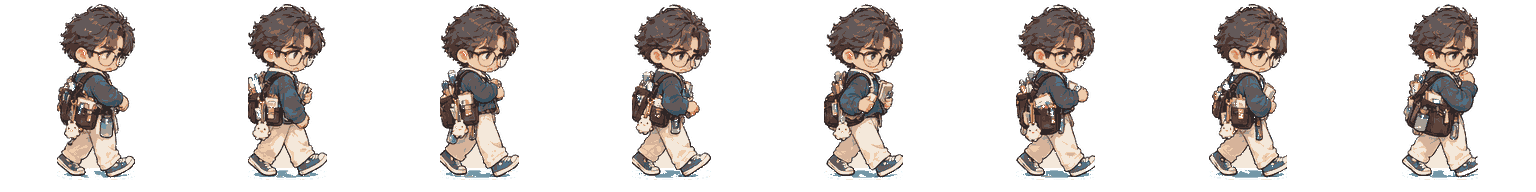
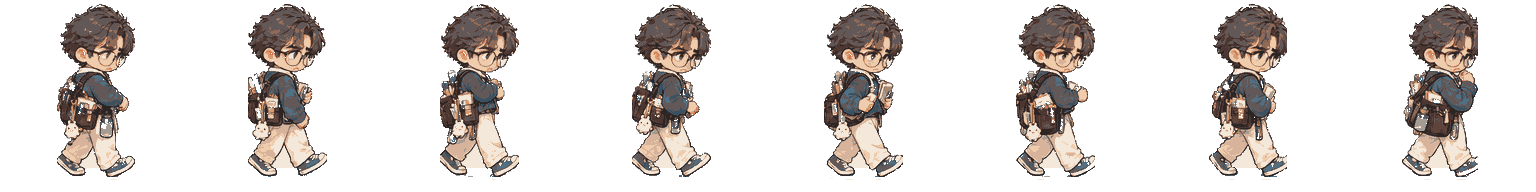
Publish compiled playtest a34ddfb

diff --git a/assets/index-BfreNoPp.js b/assets/index-BfreNoPp.js
@@ -137,7 +137,7 @@ return new `+this.key+`();
       <strong>XOAY NGANG</strong>
       <span class="mememe-landscape-note">Chạm để vào game • nếu máy không tự xoay, xoay ngang bằng tay</span>
     </button>
-  `,document.body.appendChild(R),je=R;const u=()=>pn(),g=R.querySelector(".mememe-landscape-card-simple"),C=g?.querySelector("strong");return g?.addEventListener("click",async()=>{if(!Us){Us=!0,g.disabled=!0,C&&(C.textContent="ĐANG XOAY…");try{await io(!0),u();for(const M of wl){if(!Ze||!Oi())break;await Ol(M),u()}Ze&&Oi()?eo("manual-fallback"):u()}finally{Us=!1,g.disabled=!1,C&&(C.textContent="XOAY NGANG"),u()}}}),window.addEventListener("resize",u,{passive:!0}),window.addEventListener("orientationchange",u,{passive:!0}),window.visualViewport?.addEventListener("resize",u,{passive:!0}),document.addEventListener("fullscreenchange",u),u(),()=>{window.removeEventListener("resize",u),window.removeEventListener("orientationchange",u),window.visualViewport?.removeEventListener("resize",u),document.removeEventListener("fullscreenchange",u),document.body.classList.remove("mememe-phone-portrait"),wi=void 0,R.remove(),je===R&&(je=void 0)}}const Nl={peach:{sky:16768966,glow:16773583,hill:15643277,leaf:13160330,accent:14187357},mint:{sky:14348498,glow:16773823,hill:11456925,leaf:8567693,accent:6596733},butter:{sky:16771e3,glow:16774873,hill:15320955,leaf:12175999,accent:14192466},sky:{sky:14282229,glow:16773318,hill:12442063,leaf:9421730,accent:7514313}};function si(R,u,g){const C=Nl[u];R.cameras.main.setBackgroundColor(C.sky);const M=R.add.graphics().setName("toy-town-backdrop-ch17").setDepth(-1e3);M.fillStyle(C.sky,1).fillRect(0,0,1280,720),M.fillStyle(C.glow,.58),M.fillTriangle(640,35,355,0,510,720),M.fillTriangle(640,35,765,0,870,720),M.fillTriangle(640,35,980,0,1110,720),M.fillStyle(C.hill,.7),M.fillEllipse(160,675,500,220),M.fillEllipse(1120,670,540,245),M.fillStyle(C.leaf,.78);for(const[y,t,a]of[[62,95,78],[148,70,98],[1190,92,100],[1250,160,82],[70,642,95],[1195,640,112]])M.fillCircle(y,t,a);M.fillStyle(16777215,.72);for(const[y,t,a]of[[255,78,7],[316,132,4],[1e3,92,6],[1080,152,4],[905,54,3]])M.fillCircle(y,t,a);const I=g.radius??34;M.fillStyle(4927530,.18).fillRoundedRect(g.x+8,g.y+10,g.width,g.height,I),M.fillStyle(16775144,.985).fillRoundedRect(g.x,g.y,g.width,g.height,I),M.lineStyle(5,4927530,1).strokeRoundedRect(g.x,g.y,g.width,g.height,I),M.lineStyle(3,16777215,.72).strokeRoundedRect(g.x+8,g.y+8,g.width-16,g.height-16,Math.max(12,I-8));const v=Math.min(250,g.width*.28);return M.fillStyle(C.accent,1).fillRoundedRect(g.x+34,g.y-8,v,24,12),M.lineStyle(3,4927530,1).strokeRoundedRect(g.x+34,g.y-8,v,24,12),M}const gr="mememe-official-logo-069",Dl="assets/mememe-logo-main.png?v=official-png-1024-0694";class Mi extends q.Scene{started069=!1;constructor(){super("SplashScene069")}preload(){this.load.image(gr,Dl)}create(){document.body.classList.add("mememe-splash-active"),this.events.once(q.Scenes.Events.SHUTDOWN,()=>document.body.classList.remove("mememe-splash-active")),this.events.once(q.Scenes.Events.DESTROY,()=>document.body.classList.remove("mememe-splash-active")),si(this,"peach",{x:250,y:84,width:780,height:552,radius:38}).setName("splash-toy-town-backdrop-ch178");const u=this.add.graphics().setName("splash-brand-glow-ch178");u.fillStyle(16777215,.76),u.fillCircle(640,292,185),u.fillStyle(16766826,.2),u.fillCircle(640,292,205);const g=this.add.image(640,292,gr).setAlpha(0).setScale(.48),C=this.add.graphics().setName("splash-start-shadow-ch178");C.fillStyle(14261048,1),C.fillRoundedRect(442,558,396,68,23);const M=this.add.graphics().setName("splash-start-face-ch178");M.fillStyle(16766826,1),M.fillRoundedRect(442,551,396,68,23),M.fillStyle(16777215,.58),M.fillRoundedRect(454,559,372,12,6),M.lineStyle(4,4927530,1),M.strokeRoundedRect(442,551,396,68,23);const I=this.add.text(640,585,"🎮 A / ENTER / CHẠM ĐỂ BẮT ĐẦU",{fontFamily:'system-ui, "Segoe UI", Arial, sans-serif',fontSize:"22px",fontStyle:"bold",color:"#4b302a"}).setOrigin(.5).setAlpha(0);this.tweens.add({targets:g,alpha:1,scale:.56,duration:760,ease:"Cubic.easeOut"}),this.tweens.add({targets:I,alpha:.86,duration:420,delay:520,yoyo:!0,repeat:-1,hold:700});const v=()=>{if(this.started069)return;this.started069=!0,mt.play("ui_confirm"),Ot.playMenu(),this.cameras.main.fadeOut(220,244,234,215);const y=new URLSearchParams(window.location.search).get("room");this.time.delayedCall(230,()=>this.scene.start(y?"LocalLobbyScene":"GameModeMenuScene"))};this.add.zone(640,360,1280,720).setInteractive({useHandCursor:!0}).once("pointerdown",v),this.input.keyboard?.once("keydown-ENTER",v),this.input.keyboard?.once("keydown-SPACE",v),this.input.gamepad?.once("down",v)}}const ri="0.1.70.4.73",Pe={version:ri,lobbyHeader:`MMM • ${ri}`,setupHeader:`TẠO NGƯỜI CHƠI • ${ri}`,rollOrderBadge:`MVP ${ri} • ROLL FOR ORDER`,boardHeader:`MMM CITY • ${ri}`,boardBadge:`PLAYTEST ${ri} • CH-18.19 SECRET BABY PRODUCTION CRAWL`},no=Object.freeze({id:"visual-foundation-0.1",phases:["VF-01","VF-02","VF-03","VF-04","VF-05"],tokenPrefix:"--vf-",buttonClass:"vf-button",panelClass:"vf-panel",modalClass:"vf-modal"}),Gl=["primary","secondary","subtle","danger","success"],Hl=["sm","md","lg"];function mn(R,u="primary",g="md"){R.classList.add(no.buttonClass);for(const C of Gl)R.classList.remove(`vf-button--${C}`);for(const C of Hl)R.classList.remove(`vf-button--${C}`);return R.classList.add(`vf-button--${u}`,`vf-button--${g}`),R.dataset.vfButton=`${u}:${g}`,R}function we(R,u){for(const g of u)R.querySelectorAll(g.selector).forEach(C=>{mn(C,g.variant,g.size??"md")})}function Ul(R,u="normal"){R.classList.add(no.panelClass);for(const g of["compact","normal","wide","event"])R.classList.remove(`vf-panel--${g}`);return R.classList.add(`vf-panel--${u}`),R.dataset.vfPanel=u,R}function zl(R,u){const g=()=>Array.from(R.querySelectorAll("button:not(:disabled)")).filter(t=>!t.hidden);let C=!R.hidden,M=!1;const I=()=>{!C||M||(R.hidden=!0,C=!1,R.setAttribute("aria-hidden","true"),R.contains(document.activeElement)&&u.focus({preventScroll:!0}))},v=()=>{M||C||(R.hidden=!1,C=!0,R.removeAttribute("aria-hidden"),(g()[0]??R).focus({preventScroll:!0}))},y=t=>{if(!C||M)return;if(t.key==="Escape"){t.preventDefault(),t.stopPropagation(),I();return}if(t.key!=="Tab")return;const a=g();if(!a.length){t.preventDefault(),R.focus({preventScroll:!0});return}const p=document.activeElement,o=a.indexOf(p),r=t.shiftKey?o<=0?a.length-1:o-1:o<0||o===a.length-1?0:o+1;t.preventDefault(),a[r]?.focus({preventScroll:!0})};return R.addEventListener("keydown",y),{open:v,close:I,get isOpen(){return C},destroy(){M||(C&&I(),M=!0,R.removeEventListener("keydown",y))}}}class Vl extends q.Scene{constructor(){super("GameModeMenuScene")}create(){Ot.playMenu(),si(this,"peach",{x:150,y:90,width:980,height:540,radius:34});const u=document.createElement("div");u.className="mememe-mode-menu",u.innerHTML=`
+  `,document.body.appendChild(R),je=R;const u=()=>pn(),g=R.querySelector(".mememe-landscape-card-simple"),C=g?.querySelector("strong");return g?.addEventListener("click",async()=>{if(!Us){Us=!0,g.disabled=!0,C&&(C.textContent="ĐANG XOAY…");try{await io(!0),u();for(const M of wl){if(!Ze||!Oi())break;await Ol(M),u()}Ze&&Oi()?eo("manual-fallback"):u()}finally{Us=!1,g.disabled=!1,C&&(C.textContent="XOAY NGANG"),u()}}}),window.addEventListener("resize",u,{passive:!0}),window.addEventListener("orientationchange",u,{passive:!0}),window.visualViewport?.addEventListener("resize",u,{passive:!0}),document.addEventListener("fullscreenchange",u),u(),()=>{window.removeEventListener("resize",u),window.removeEventListener("orientationchange",u),window.visualViewport?.removeEventListener("resize",u),document.removeEventListener("fullscreenchange",u),document.body.classList.remove("mememe-phone-portrait"),wi=void 0,R.remove(),je===R&&(je=void 0)}}const Nl={peach:{sky:16768966,glow:16773583,hill:15643277,leaf:13160330,accent:14187357},mint:{sky:14348498,glow:16773823,hill:11456925,leaf:8567693,accent:6596733},butter:{sky:16771e3,glow:16774873,hill:15320955,leaf:12175999,accent:14192466},sky:{sky:14282229,glow:16773318,hill:12442063,leaf:9421730,accent:7514313}};function si(R,u,g){const C=Nl[u];R.cameras.main.setBackgroundColor(C.sky);const M=R.add.graphics().setName("toy-town-backdrop-ch17").setDepth(-1e3);M.fillStyle(C.sky,1).fillRect(0,0,1280,720),M.fillStyle(C.glow,.58),M.fillTriangle(640,35,355,0,510,720),M.fillTriangle(640,35,765,0,870,720),M.fillTriangle(640,35,980,0,1110,720),M.fillStyle(C.hill,.7),M.fillEllipse(160,675,500,220),M.fillEllipse(1120,670,540,245),M.fillStyle(C.leaf,.78);for(const[y,t,a]of[[62,95,78],[148,70,98],[1190,92,100],[1250,160,82],[70,642,95],[1195,640,112]])M.fillCircle(y,t,a);M.fillStyle(16777215,.72);for(const[y,t,a]of[[255,78,7],[316,132,4],[1e3,92,6],[1080,152,4],[905,54,3]])M.fillCircle(y,t,a);const I=g.radius??34;M.fillStyle(4927530,.18).fillRoundedRect(g.x+8,g.y+10,g.width,g.height,I),M.fillStyle(16775144,.985).fillRoundedRect(g.x,g.y,g.width,g.height,I),M.lineStyle(5,4927530,1).strokeRoundedRect(g.x,g.y,g.width,g.height,I),M.lineStyle(3,16777215,.72).strokeRoundedRect(g.x+8,g.y+8,g.width-16,g.height-16,Math.max(12,I-8));const v=Math.min(250,g.width*.28);return M.fillStyle(C.accent,1).fillRoundedRect(g.x+34,g.y-8,v,24,12),M.lineStyle(3,4927530,1).strokeRoundedRect(g.x+34,g.y-8,v,24,12),M}const gr="mememe-official-logo-069",Dl="assets/mememe-logo-main.png?v=official-png-1024-0694";class Mi extends q.Scene{started069=!1;constructor(){super("SplashScene069")}preload(){this.load.image(gr,Dl)}create(){document.body.classList.add("mememe-splash-active"),this.events.once(q.Scenes.Events.SHUTDOWN,()=>document.body.classList.remove("mememe-splash-active")),this.events.once(q.Scenes.Events.DESTROY,()=>document.body.classList.remove("mememe-splash-active")),si(this,"peach",{x:250,y:84,width:780,height:552,radius:38}).setName("splash-toy-town-backdrop-ch178");const u=this.add.graphics().setName("splash-brand-glow-ch178");u.fillStyle(16777215,.76),u.fillCircle(640,292,185),u.fillStyle(16766826,.2),u.fillCircle(640,292,205);const g=this.add.image(640,292,gr).setAlpha(0).setScale(.48),C=this.add.graphics().setName("splash-start-shadow-ch178");C.fillStyle(14261048,1),C.fillRoundedRect(442,558,396,68,23);const M=this.add.graphics().setName("splash-start-face-ch178");M.fillStyle(16766826,1),M.fillRoundedRect(442,551,396,68,23),M.fillStyle(16777215,.58),M.fillRoundedRect(454,559,372,12,6),M.lineStyle(4,4927530,1),M.strokeRoundedRect(442,551,396,68,23);const I=this.add.text(640,585,"🎮 A / ENTER / CHẠM ĐỂ BẮT ĐẦU",{fontFamily:'system-ui, "Segoe UI", Arial, sans-serif',fontSize:"22px",fontStyle:"bold",color:"#4b302a"}).setOrigin(.5).setAlpha(0);this.tweens.add({targets:g,alpha:1,scale:.56,duration:760,ease:"Cubic.easeOut"}),this.tweens.add({targets:I,alpha:.86,duration:420,delay:520,yoyo:!0,repeat:-1,hold:700});const v=()=>{if(this.started069)return;this.started069=!0,mt.play("ui_confirm"),Ot.playMenu(),this.cameras.main.fadeOut(220,244,234,215);const y=new URLSearchParams(window.location.search).get("room");this.time.delayedCall(230,()=>this.scene.start(y?"LocalLobbyScene":"GameModeMenuScene"))};this.add.zone(640,360,1280,720).setInteractive({useHandCursor:!0}).once("pointerdown",v),this.input.keyboard?.once("keydown-ENTER",v),this.input.keyboard?.once("keydown-SPACE",v),this.input.gamepad?.once("down",v)}}const ri="0.1.70.4.74",Pe={version:ri,lobbyHeader:`MMM • ${ri}`,setupHeader:`TẠO NGƯỜI CHƠI • ${ri}`,rollOrderBadge:`MVP ${ri} • ROLL FOR ORDER`,boardHeader:`MMM CITY • ${ri}`,boardBadge:`PLAYTEST ${ri} • CH-18.20 CHARACTER ANIMATION REPAIR`},no=Object.freeze({id:"visual-foundation-0.1",phases:["VF-01","VF-02","VF-03","VF-04","VF-05"],tokenPrefix:"--vf-",buttonClass:"vf-button",panelClass:"vf-panel",modalClass:"vf-modal"}),Gl=["primary","secondary","subtle","danger","success"],Hl=["sm","md","lg"];function mn(R,u="primary",g="md"){R.classList.add(no.buttonClass);for(const C of Gl)R.classList.remove(`vf-button--${C}`);for(const C of Hl)R.classList.remove(`vf-button--${C}`);return R.classList.add(`vf-button--${u}`,`vf-button--${g}`),R.dataset.vfButton=`${u}:${g}`,R}function we(R,u){for(const g of u)R.querySelectorAll(g.selector).forEach(C=>{mn(C,g.variant,g.size??"md")})}function Ul(R,u="normal"){R.classList.add(no.panelClass);for(const g of["compact","normal","wide","event"])R.classList.remove(`vf-panel--${g}`);return R.classList.add(`vf-panel--${u}`),R.dataset.vfPanel=u,R}function zl(R,u){const g=()=>Array.from(R.querySelectorAll("button:not(:disabled)")).filter(t=>!t.hidden);let C=!R.hidden,M=!1;const I=()=>{!C||M||(R.hidden=!0,C=!1,R.setAttribute("aria-hidden","true"),R.contains(document.activeElement)&&u.focus({preventScroll:!0}))},v=()=>{M||C||(R.hidden=!1,C=!0,R.removeAttribute("aria-hidden"),(g()[0]??R).focus({preventScroll:!0}))},y=t=>{if(!C||M)return;if(t.key==="Escape"){t.preventDefault(),t.stopPropagation(),I();return}if(t.key!=="Tab")return;const a=g();if(!a.length){t.preventDefault(),R.focus({preventScroll:!0});return}const p=document.activeElement,o=a.indexOf(p),r=t.shiftKey?o<=0?a.length-1:o-1:o<0||o===a.length-1?0:o+1;t.preventDefault(),a[r]?.focus({preventScroll:!0})};return R.addEventListener("keydown",y),{open:v,close:I,get isOpen(){return C},destroy(){M||(C&&I(),M=!0,R.removeEventListener("keydown",y))}}}class Vl extends q.Scene{constructor(){super("GameModeMenuScene")}create(){Ot.playMenu(),si(this,"peach",{x:150,y:90,width:980,height:540,radius:34});const u=document.createElement("div");u.className="mememe-mode-menu",u.innerHTML=`
       <header class="mode-menu-head">
         <div>
           <div class="mode-menu-kicker">MMM • ${Pe.version}</div>

diff --git a/index.html b/index.html
@@ -10,7 +10,7 @@
     <meta name="apple-mobile-web-app-status-bar-style" content="black-translucent" />
     <link rel="manifest" href="./manifest.webmanifest" />
     <title>MMM Board Game • Playtest</title>
-    <script type="module" crossorigin src="./assets/index-C-asd_xi.js"></script>
+    <script type="module" crossorigin src="./assets/index-BfreNoPp.js"></script>
     <link rel="stylesheet" crossorigin href="./assets/index-CuCueq7o.css">
   </head>
   <body>
